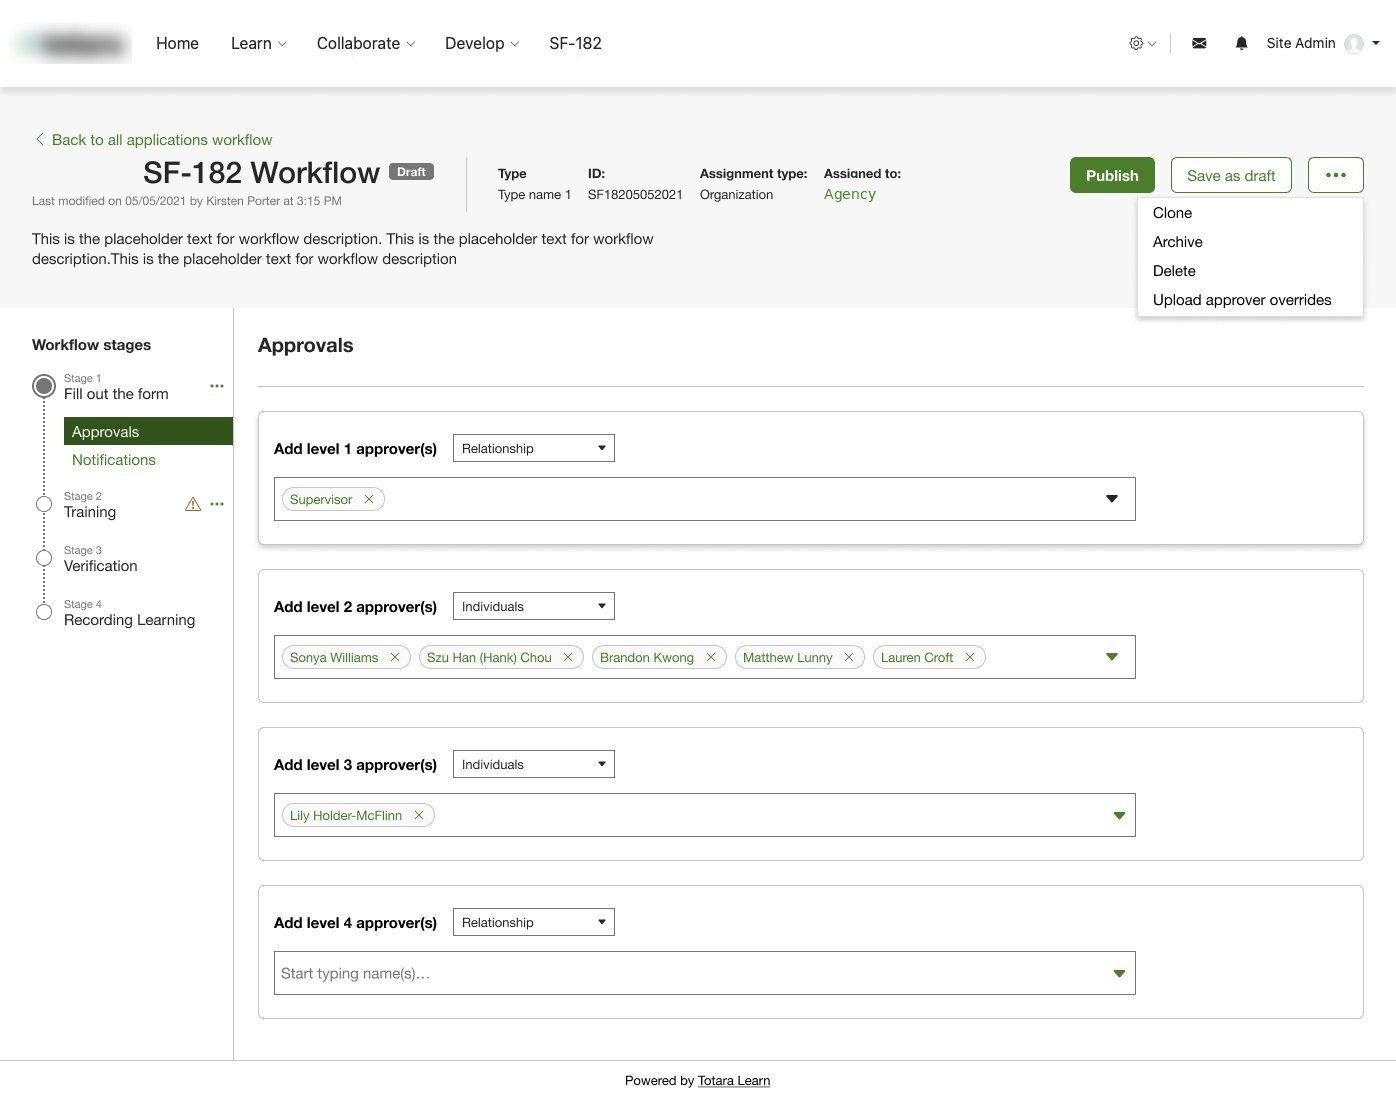
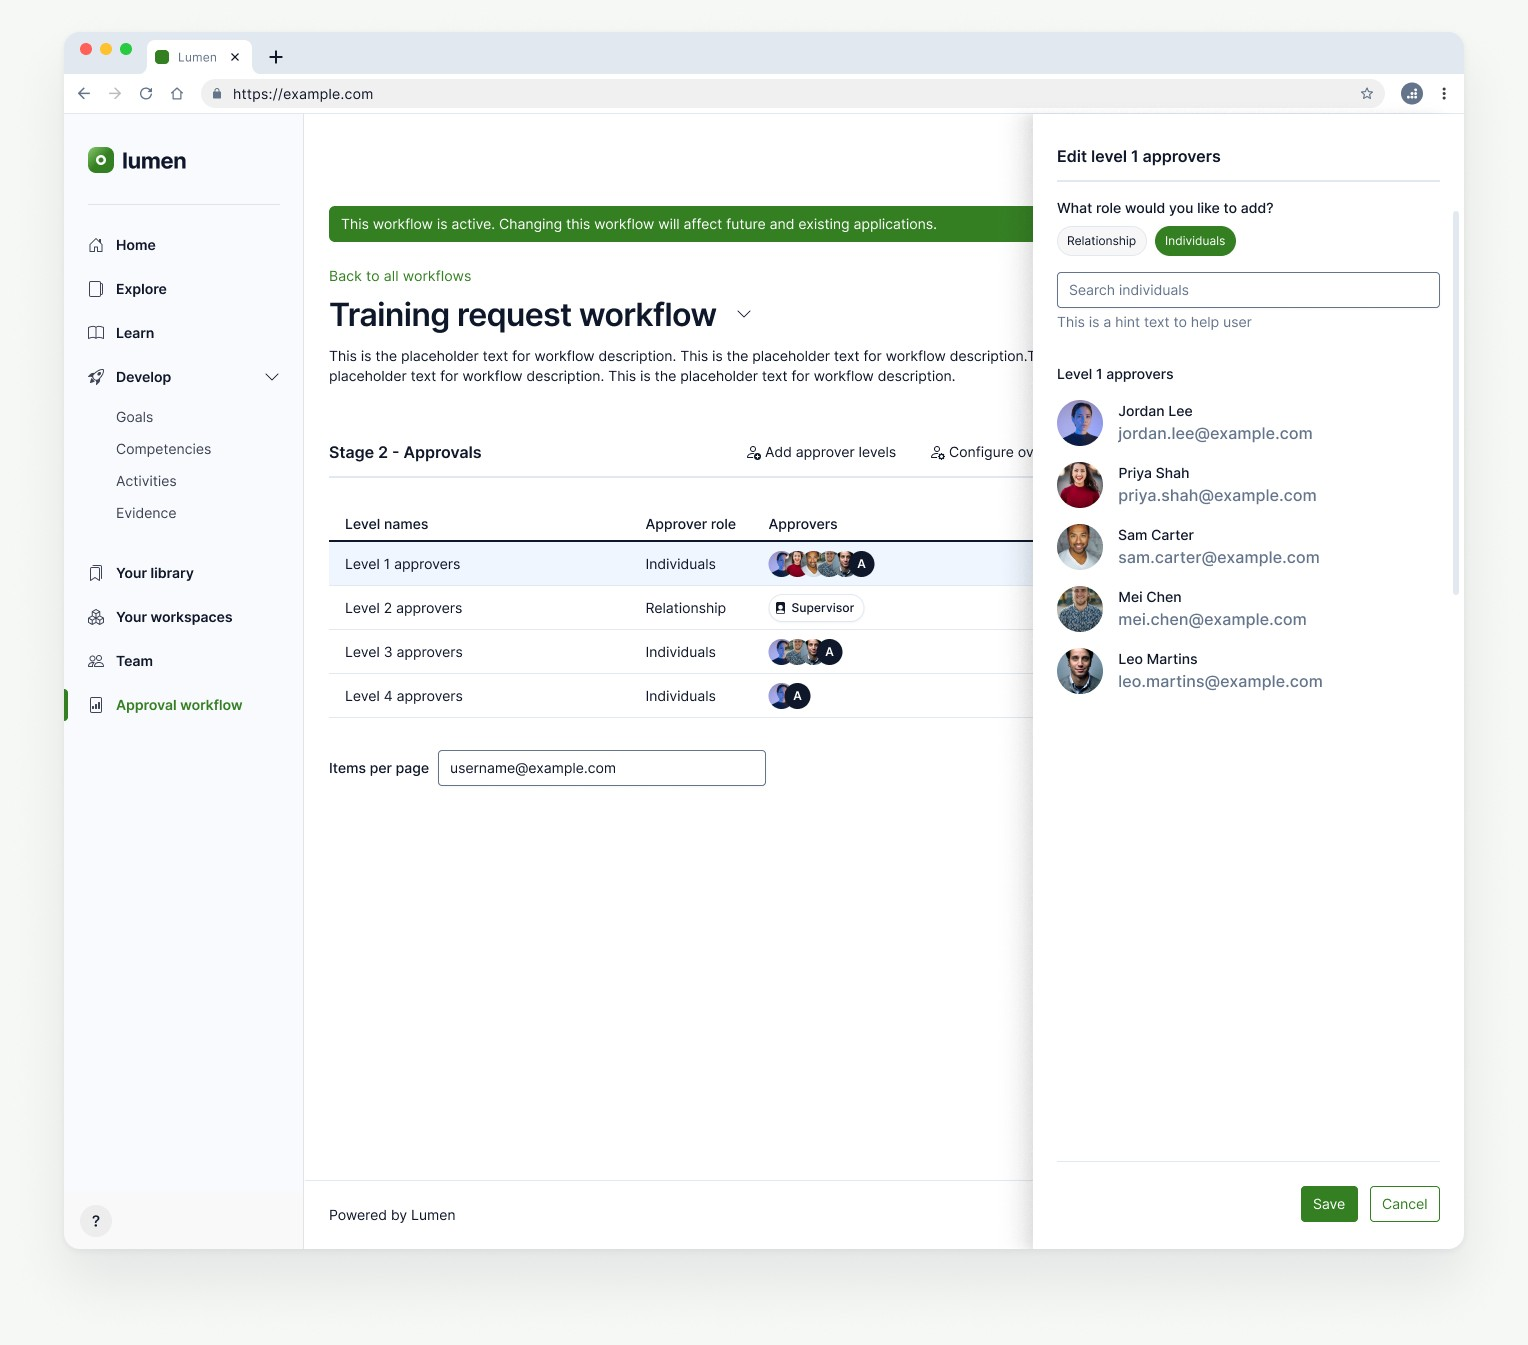
Real screens: Totara Mobile app and SF-182 admin workflow
Claude-Session: https://claude.ai/code/session_019G1cGovoJYErgfDHBcAoJu

Changed region(s): [[0.0, 0.0, 0.9857, 0.6182], [0.0616, 0.8345, 0.9549, 0.9891], [0.1848, 0.68, 0.3696, 0.7727]]

diff --git a/totaramobile.html b/totaramobile.html
@@ -162,7 +162,7 @@
                             <div class="lp-cs-tags"><span>Totara Mobile</span><span>iOS &amp; Android</span><span>Enterprise</span><span>UX/UI</span></div>
                         </div>
                         <div class="lp-cs-hero has-animation" data-delay="120">
-                            <img decoding="async" src="images/projects/10hero.jpg" alt="Totara Mobile app screens" width="1920" height="1080">
+                            <img decoding="async" src="images/projects/TotaraMobile_hero.jpg" alt="Totara Mobile app screens: your learning, a course, home, a programme, and skills and goals" width="1920" height="1080">
                         </div>
                         <p class="lp-cs-note">Statement of originality and confidentiality: to comply with my non-disclosure agreement, I have omitted and obscured confidential information in this case study, including customer names and real data. This material belongs to the organisation named on it and is shared only to demonstrate my work experience and skills for the purpose of employment.</p>
                     </div>
@@ -173,7 +173,7 @@
                         <div class="lp-cs-row has-animation" id="cs-brief" data-delay="40">
                             <h2 class="lp-cs-label">Brief</h2>
                             <div class="lp-cs-body"><p><strong>Totara Mobile</strong> is the native iOS and Android app for the Totara learning platform. It gives learners their learning wherever they are: they can see what they need to complete, work through courses on their phone, download learning to finish offline, and get reminders when something is due.</p><p><a href="https://www.totara.com/" target="_blank" rel="noopener"><strong>Totara</strong></a> is a learning, performance and compliance platform used by organisations worldwide.</p><p>Every organisation runs its own Totara site, so the app had to <strong>connect to each customer's site</strong> and feel like their product, with their branding and their content. <span class="lp-todo">[Add timeframe and which releases/features you worked on]</span></p></div>
-                            <figure class="lp-cs-fig"><img loading="lazy" decoding="async" src="images/projects/TotaraMobile_overview.jpg" alt="Totara Mobile overview" width="1920" height="900"></figure>
+                            <figure class="lp-cs-fig"><img loading="lazy" decoding="async" src="images/projects/TotaraMobile_overview.jpg" alt="Key screens of the app: home, your learning, course, programme and certification" width="1852" height="882"></figure>
                         </div>
                         <div class="lp-cs-row has-animation" id="cs-challenge" data-delay="40">
                             <h2 class="lp-cs-label">Challenge</h2>
@@ -199,17 +199,14 @@
                         <div class="lp-cs-row has-animation" id="cs-discover" data-delay="40">
                             <h2 class="lp-cs-label">Discover</h2>
                             <div class="lp-cs-body"><h4>Research with learners and customers</h4><p>Together with the product owners, I spoke with customers and learners to understand when and where people learn, what devices they use, and what stops them completing their learning on time. <span class="lp-todo">[How many interviews / customers / industries?]</span></p><h4>Reviewing the web experience</h4><p>I reviewed how learners use Totara on the web today, which tasks matter most on the go, and which parts of the desktop experience didn't make sense on a phone.</p><h4>Key insights</h4><p><span class="lp-todo">[Check these match what you found, and edit]</span></p><ul><li>Learners mostly open the app to answer one question: "What do I need to do next?"</li><li>Sessions are short and often interrupted.</li><li>Connectivity is unreliable in many workplaces.</li><li>Learners can miss due dates without a timely reminder.</li><li>Organisations want the app to look like their own brand.</li></ul></div>
-                            <div class="lp-cs-gallery"><figure><img loading="lazy" decoding="async" src="images/projects/TotaraMobile_persona.jpg" alt="Persona: the learner on the go" width="1920" height="1024"><figcaption>Persona: the learner on the go</figcaption></figure><figure><img loading="lazy" decoding="async" src="images/projects/TotaraMobile_journeymap.jpg" alt="Learner journey map" width="1920" height="1024"><figcaption>Learner journey map</figcaption></figure></div>
                         </div>
                         <div class="lp-cs-row has-animation" id="cs-define" data-delay="40">
                             <h2 class="lp-cs-label">Define</h2>
                             <div class="lp-cs-body"><h4>Journey mapping</h4><p>We mapped the learner's journey from first opening the app, through signing in to their organisation's site, to finding, completing and tracking learning. This showed the moments where the app could help most.</p><h4>Application map</h4><p>I created an <strong>application map</strong> to agree the structure of the app with the team: what lives on the home screen, how learners move into a course and back, and where downloads and notifications sit.</p><h4>Key decisions</h4><ul><li>Put "current learning" first, ordered by what is due soonest.</li><li>Make offline a first-class feature: clear download controls and progress that syncs when back online.</li><li>Keep sign-in simple, including connecting to the right organisation's site.</li><li>Let each organisation apply its own branding.</li></ul></div>
-                            <figure class="lp-cs-fig"><img loading="lazy" decoding="async" src="images/projects/TotaraMobile_appmap.jpg" alt="Application map" width="1920" height="1024"><figcaption>Application map</figcaption></figure>
                         </div>
                         <div class="lp-cs-row has-animation" id="cs-design" data-delay="40" style="margin-bottom:40px">
                             <h2 class="lp-cs-label">Design</h2>
                             <div class="lp-cs-body"><h4>Wireframes</h4><p>I sketched and wireframed the key flows (sign in, current learning, course and activity, downloads) and reviewed them with product owners and developers early, so we could check what was technically possible on each platform.</p><h4>Prototype and testing</h4><p>The flows were turned into clickable prototypes in Figma and tested with learners and customers. <span class="lp-todo">[What did you learn and change?]</span></p><h4>Visual design and design system</h4><p>The visual design follows iOS and Android conventions while staying recognisably Totara, using shared colours, type and components from the Totara UI Kit, and supporting each organisation's brand colours.</p></div>
-                            <figure class="lp-cs-fig"><img loading="lazy" decoding="async" src="images/projects/TotaraMobile_wireframes.jpg" alt="Wireframes of the key flows" width="1920" height="1080"><figcaption>Wireframes of the key flows</figcaption></figure>
                         </div>
                     </div>
                 </section>
@@ -219,24 +216,19 @@
                         <div class="lp-cs-group">
                             <h2 class="lp-cs-group-h has-animation" data-delay="40">The app</h2>
                             <div class="lp-cs-item has-animation" data-delay="40">
-                                <h3>Sign in</h3>
-                                <p><strong>Connect to your organisation –</strong> Sign-in is kept simple, including connecting to the right organisation's site.</p>
-                                <img loading="lazy" decoding="async" src="images/projects/TotaraMobile_screens1.jpg" alt="Sign in" width="1920" height="1080">
+                                <h3>Home and your learning</h3>
+                                <p><strong>What do I need to do next –</strong> Home brings together recently viewed learning and your learnings. Your learning splits courses, programmes and certifications into ongoing, completed and downloaded, and a "Last accessed activity" bar lets learners pick up where they left off.</p>
+                                <img loading="lazy" decoding="async" src="images/projects/TotaraMobile_learning.jpg" alt="Home, your learning (ongoing) and your learning (completed)" width="1613" height="883">
                             </div>
                             <div class="lp-cs-item has-animation" data-delay="40">
-                                <h3>Current learning and course</h3>
-                                <p><strong>What do I need to do next –</strong> Current learning comes first, ordered by what is due soonest, and learners can work through a course on their phone.</p>
-                                <img loading="lazy" decoding="async" src="images/projects/TotaraMobile_screens2.jpg" alt="Current learning and course" width="1920" height="1080">
+                                <h3>Courses, programmes and certifications</h3>
+                                <p><strong>Everything about a piece of learning on one screen –</strong> An overview, its courses or activities, and a clear call to action such as enrolling in a course.</p>
+                                <img loading="lazy" decoding="async" src="images/projects/TotaraMobile_course.jpg" alt="Course, programme and certification screens" width="1613" height="883">
                             </div>
                             <div class="lp-cs-item has-animation" data-delay="40">
-                                <h3>Offline downloads and notifications</h3>
-                                <p><strong>Learning without a signal –</strong> Clear download controls let learners finish learning offline, progress syncs when they are back online, and reminders arrive when something is due.</p>
-                                <img loading="lazy" decoding="async" src="images/projects/TotaraMobile_screens3.jpg" alt="Offline downloads and notifications" width="1920" height="1080">
-                            </div>
-                            <div class="lp-cs-item has-animation" data-delay="40">
-                                <h3>Customer branding</h3>
-                                <p><strong>One app, many organisations –</strong> Each organisation applies its own branding, so the app feels like their product.</p>
-                                <img loading="lazy" decoding="async" src="images/projects/TotaraMobile_branding.jpg" alt="Customer branding" width="1920" height="900">
+                                <h3>Profile, skills and micro-learning</h3>
+                                <p><strong>The learner’s own space –</strong> Badges and certificates, skills and goals, saved learning and downloads sit under the profile, and short micro-learning cards fit a few spare minutes.</p>
+                                <img loading="lazy" decoding="async" src="images/projects/TotaraMobile_profile.jpg" alt="Profile, skills and goals, and a micro-learning card" width="1613" height="1092">
                             </div>
                         </div>
                     </div>

diff --git a/sf182.html b/sf182.html
@@ -317,13 +317,38 @@
                             <h2 class="lp-cs-group-h has-animation" data-delay="40">Site administrator</h2>
                             <div class="lp-cs-item has-animation" data-delay="40">
                                 <h3>Approval workflows</h3>
-                                <p><strong>Workflows that change with the agency –</strong> Site administrators manage workflows: edit, clone, publish and archive them.</p>
-                                <img loading="lazy" decoding="async" src="images/projects/SF182_admin_workflows.jpg" alt="Manage approval workflows" width="1396" height="900">
+                                <p><strong>Workflows that change with the agency –</strong> Site administrators see every workflow in one list and can edit, clone, publish and archive them.</p>
+                                <img loading="lazy" decoding="async" src="images/projects/SF182_admin_workflows.jpg" alt="All approval workflows" width="1528" height="1204">
+                            </div>
+                            <div class="lp-cs-item has-animation" data-delay="40">
+                                <h3>Start from a template</h3>
+                                <p><strong>A head start –</strong> A new workflow can start from a template, then gets its own name and description.</p>
+                                <img loading="lazy" decoding="async" src="images/projects/SF182_admin_templates.jpg" alt="Choosing a workflow template" width="1528" height="1204">
+                                <img loading="lazy" decoding="async" src="images/projects/SF182_admin_details.jpg" alt="Naming a new workflow" width="1528" height="1204">
+                            </div>
+                            <div class="lp-cs-item has-animation" data-delay="40">
+                                <h3>Stages and the request form</h3>
+                                <p><strong>The whole workflow at a glance –</strong> Each workflow is a set of stages listed down the side; the form stage holds the SF-182 request form, which administrators can edit.</p>
+                                <img loading="lazy" decoding="async" src="images/projects/SF182_admin_form.jpg" alt="Workflow stages and the request form" width="1528" height="1204">
+                                <img loading="lazy" decoding="async" src="images/projects/SF182_admin_editform.jpg" alt="Editing the request form" width="1528" height="1204">
                             </div>
                             <div class="lp-cs-item has-animation" data-delay="40">
                                 <h3>Approvers for each level</h3>
-                                <p><strong>Flexible approval chains –</strong> Administrators choose approvers for each of the four levels by relationship or by name, upload overrides for sub-organisations in bulk with a CSV file, and edit the notifications.</p>
-                                <img loading="lazy" decoding="async" src="images/projects/SF182_admin_approvers.jpg" alt="Configuring approvers for each level" width="1396" height="1100">
+                                <p><strong>Flexible approval chains –</strong> Administrators choose approvers for each of the four levels by relationship or by name.</p>
+                                <img loading="lazy" decoding="async" src="images/projects/SF182_admin_levels.jpg" alt="Approval levels for a workflow stage" width="1528" height="1345">
+                                <img loading="lazy" decoding="async" src="images/projects/SF182_admin_approvers.jpg" alt="Choosing approvers for a level" width="1528" height="1345">
+                            </div>
+                            <div class="lp-cs-item has-animation" data-delay="40">
+                                <h3>Overrides for sub-organisations</h3>
+                                <p><strong>One workflow, many organisations –</strong> Where a sub-organisation approves differently, administrators add an override for it, or upload overrides in bulk with a CSV file.</p>
+                                <img loading="lazy" decoding="async" src="images/projects/SF182_admin_overrides.jpg" alt="Approver overrides by sub-organisation" width="1528" height="1345">
+                                <img loading="lazy" decoding="async" src="images/projects/SF182_admin_override_suborg.jpg" alt="Adding an override for a sub-organisation" width="1528" height="1345">
+                            </div>
+                            <div class="lp-cs-item has-animation" data-delay="40">
+                                <h3>Interactions</h3>
+                                <p><strong>What happens next –</strong> Interactions set what the workflow does when something changes on a request, such as a conditional action or a move to the next stage.</p>
+                                <img loading="lazy" decoding="async" src="images/projects/SF182_admin_interactions.jpg" alt="Workflow interactions" width="1528" height="1345">
+                                <img loading="lazy" decoding="async" src="images/projects/SF182_admin_add_interaction.jpg" alt="Adding an interaction" width="1528" height="1345">
                             </div>
                         </div>
 

diff --git a/index.html b/index.html
@@ -243,7 +243,7 @@
                                 <div class="lp-card-panel"><div class="meta">Totara · TotaraGov</div><h3>From a paper form to a guided approval workflow</h3><p>SF-182 for US federal agencies.</p><span class="lp-link">View case study</span></div>
                             </a>
                             <a href="totaramobile.html" class="lp-card ajax-link has-animation" data-type="page-transition" data-delay="100">
-                                <img loading="lazy" decoding="async" src="images/10.jpg" alt="Totara Mobile">
+                                <img loading="lazy" decoding="async" src="images/projects/TotaraMobile_hero.jpg" alt="Totara Mobile app screens">
                                 <div class="lp-card-panel"><div class="meta">Totara</div><h3>Learning in your pocket, online or offline</h3><span class="lp-link">View case study</span></div>
                             </a>
                             <a href="aware.html" class="lp-card ajax-link has-animation" data-type="page-transition" data-delay="160">
